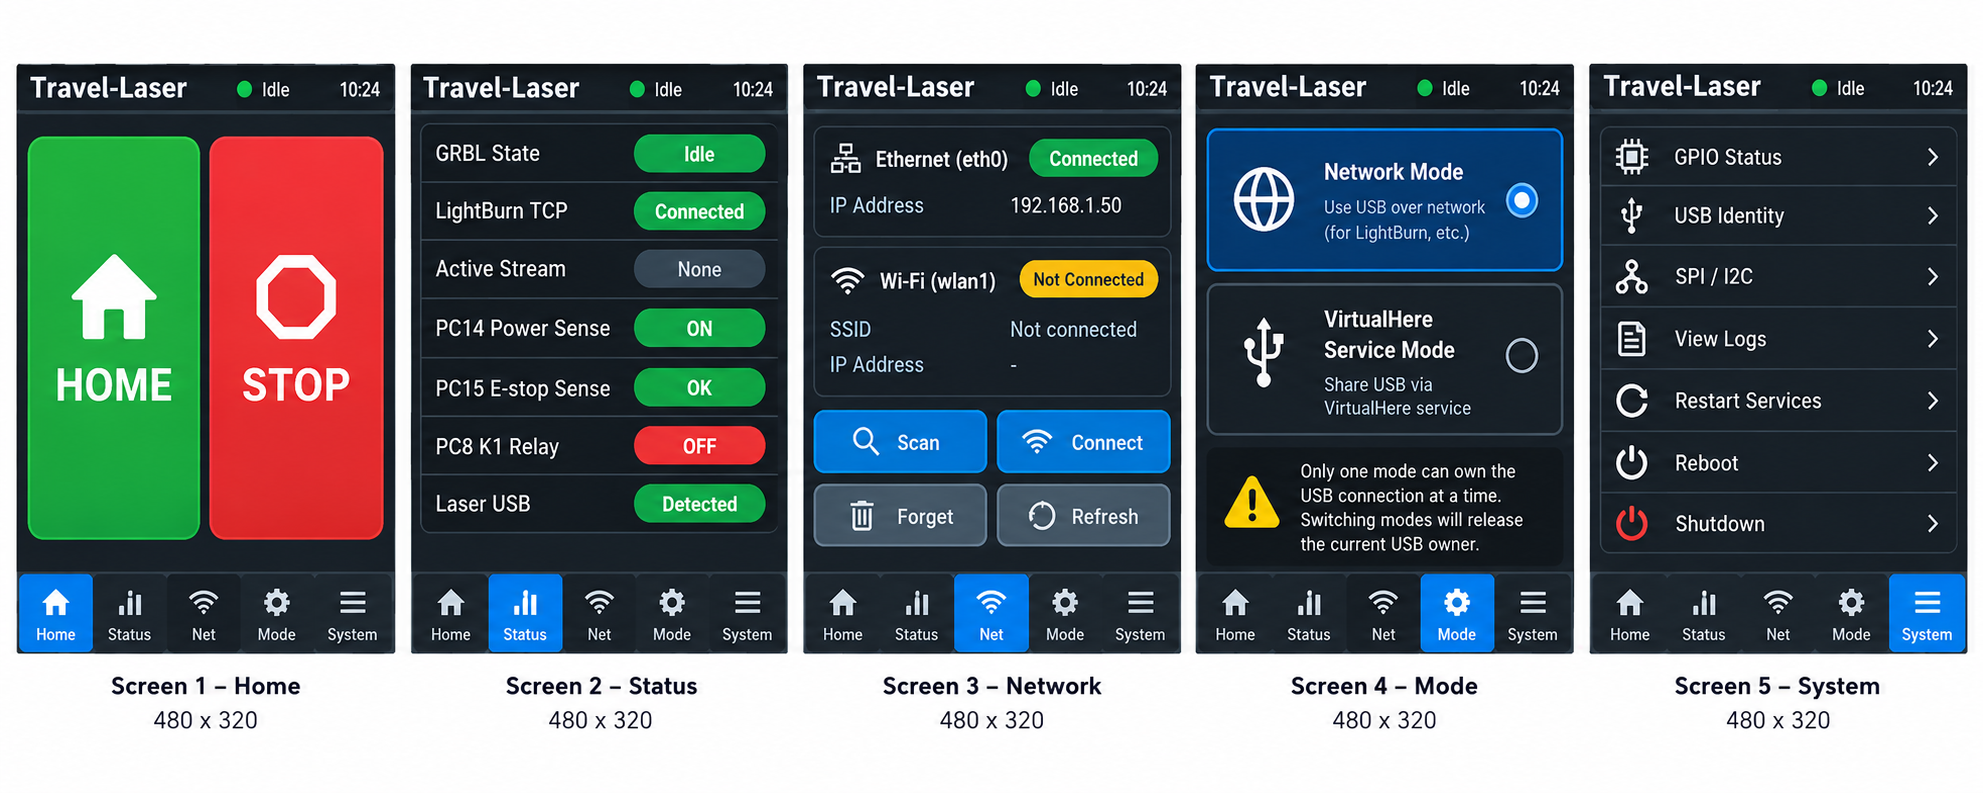
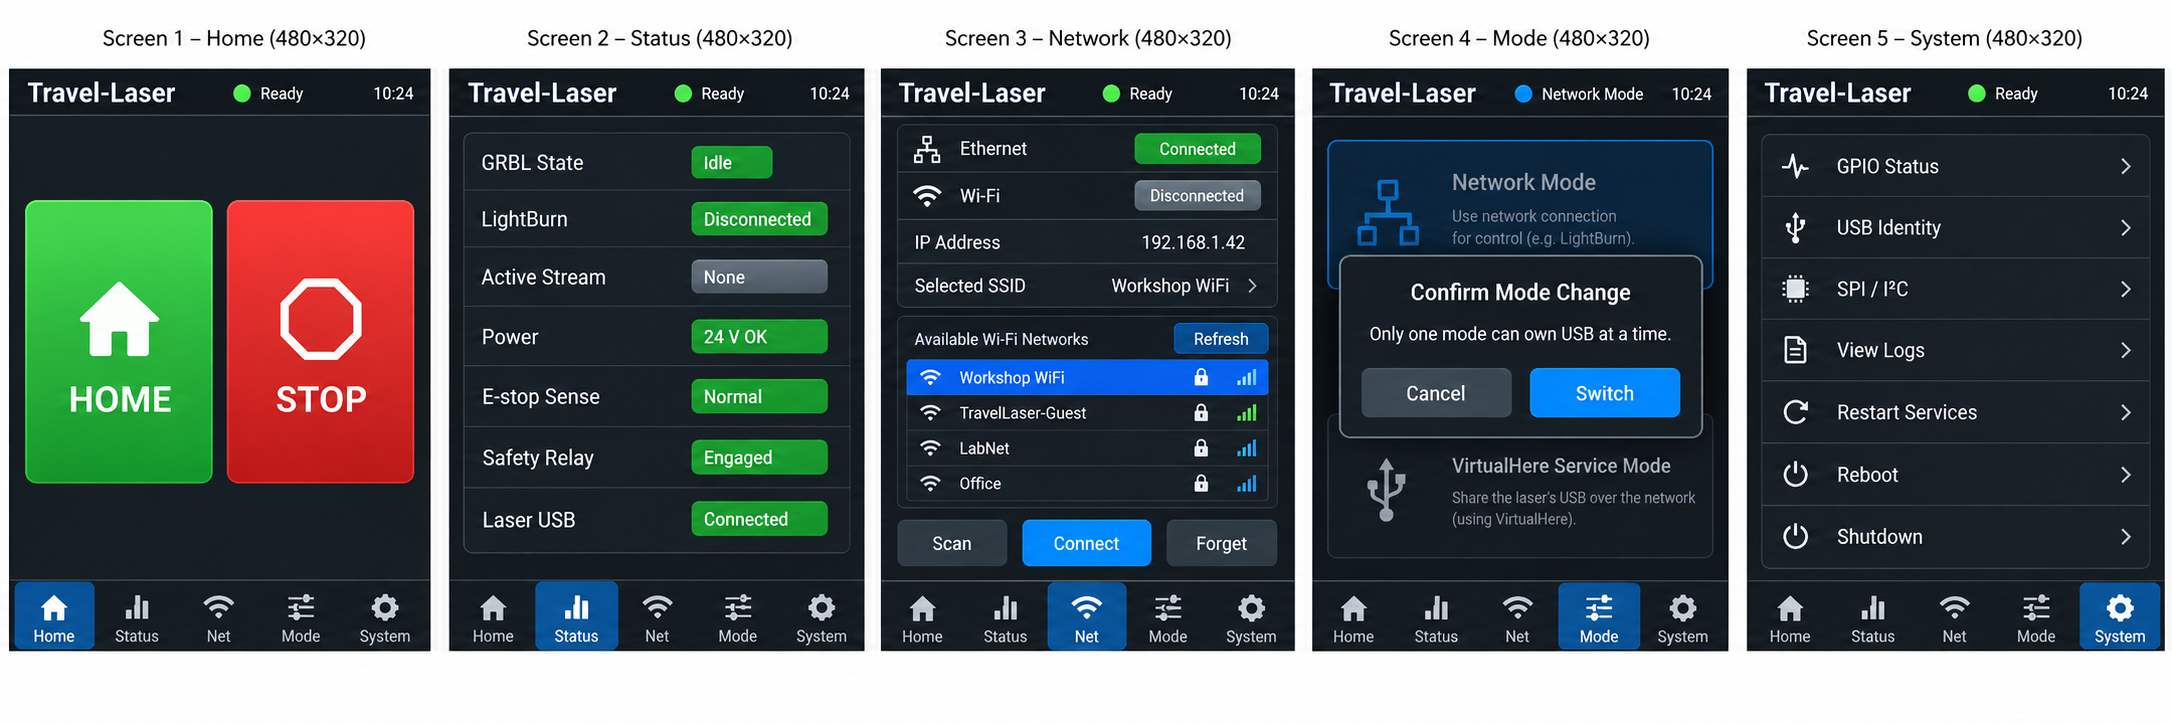
Refine local UI labels and flows

diff --git a/docs/API.md b/docs/API.md
@@ -19,9 +19,9 @@ travel-laser-ui --config /etc/travel-laser/controller.yaml --display st7796 --to
 Expected local screens:
 
 - Home: machine state plus two large same-priority controls, `HOME` and `STOP`.
-- Status: LightBurn TCP connection/stream state, PC14 power sense, PC15 E-stop sense, K1 relay, laser USB connection, and GRBL state.
-- Network: `eth0`, `wlan1`, IP address, Wi-Fi scan/connect/forget.
-- Mode: Network vs VirtualHere ownership.
+- Status: GRBL state, LightBurn TCP connection/stream state, Power, E-stop Sense, Safety Relay, and Laser USB connection.
+- Network: `eth0`, `wlan1`, IP address, Wi-Fi scan, SSID selection, password prompt, connect, forget, and refresh.
+- Mode: Network vs VirtualHere ownership. Selecting the inactive mode opens a confirmation popup before changing modes.
 - System: display/touch test, diagnostics, service controls, reboot/shutdown.
 
 Bottom navigation order is fixed as `Home`, `Status`, `Net`, `Mode`, `System`. `STOP` is not a navigation tab; it is a large Home-screen action.
@@ -31,3 +31,15 @@ The local UI does not display the camera stream; camera viewing is web UI only. 
 ## Network Settings
 
 Network settings apply to uplink Wi-Fi on `wlan1`. Ethernet `eth0` remains preferred when both uplinks are connected.
+
+Touchscreen Wi-Fi flow:
+
+1. Tap `Scan`.
+2. Select an SSID from the scan result list.
+3. Tap `Connect`.
+4. Enter the Wi-Fi password when prompted.
+5. Confirm connection status on the Network screen.
+
+## Mode Changes
+
+The Mode screen does not show a persistent warning panel. If the user selects the inactive mode, the UI shows a confirmation popup explaining that only one mode can own the laser USB connection at a time and that switching modes releases the current USB owner.

diff --git a/README.md b/README.md
@@ -29,6 +29,8 @@ Implemented:
 
 The Orange Pi touchscreen is a local control/status panel only. Camera viewing is web UI only, and the project does not expect LightBurn-specific metadata such as file name, job name, layer names, artwork preview, or estimated time remaining. The Pi does not store or launch local job files; jobs always originate from the external computer through LightBurn/GRBL.
 
+User-facing touchscreen labels should use common names such as `Power`, `E-stop Sense`, `Safety Relay`, and `Laser USB`; PC/GPIO names stay in hardware/config documentation.
+
 ## Development
 
 ```bash
